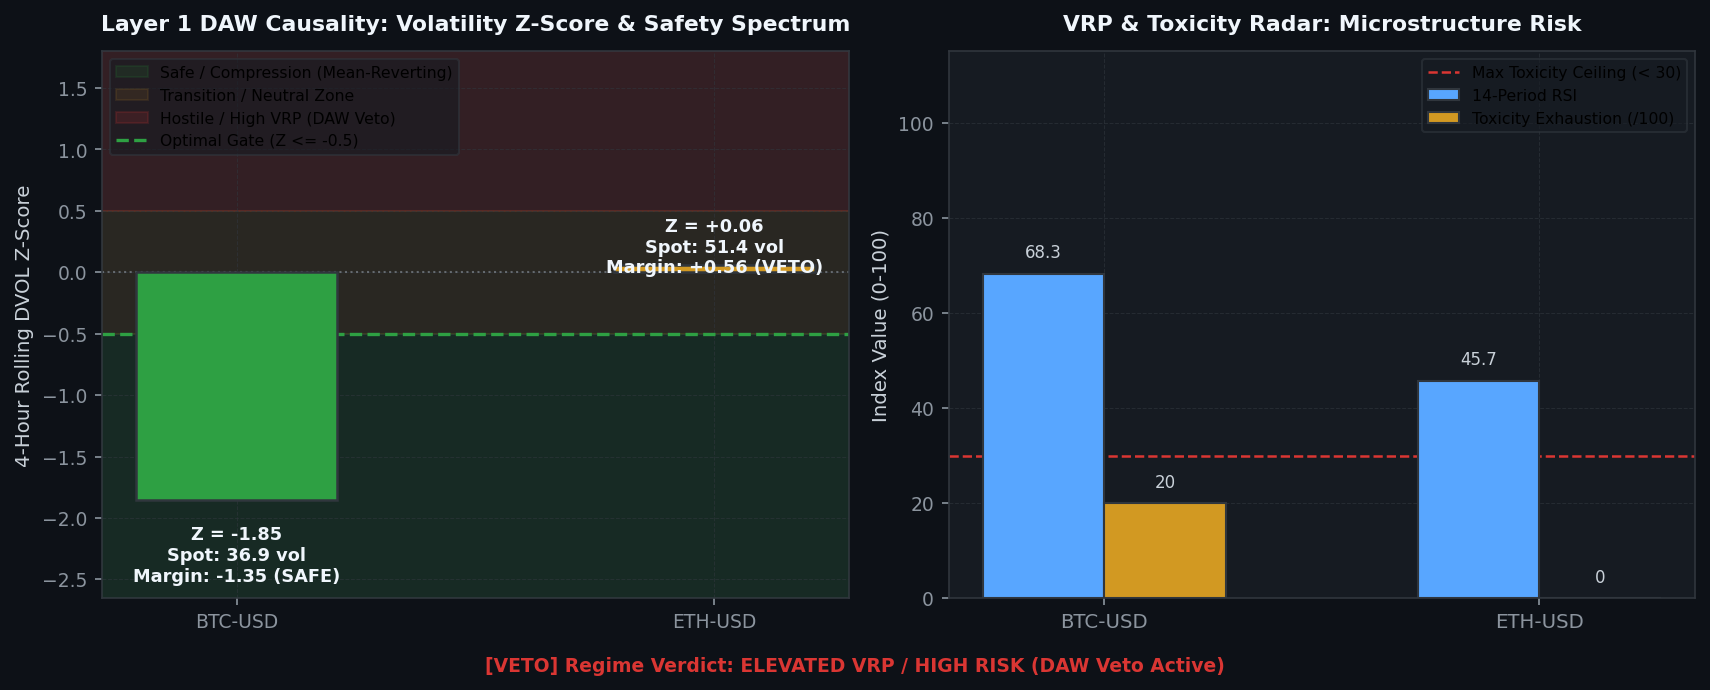
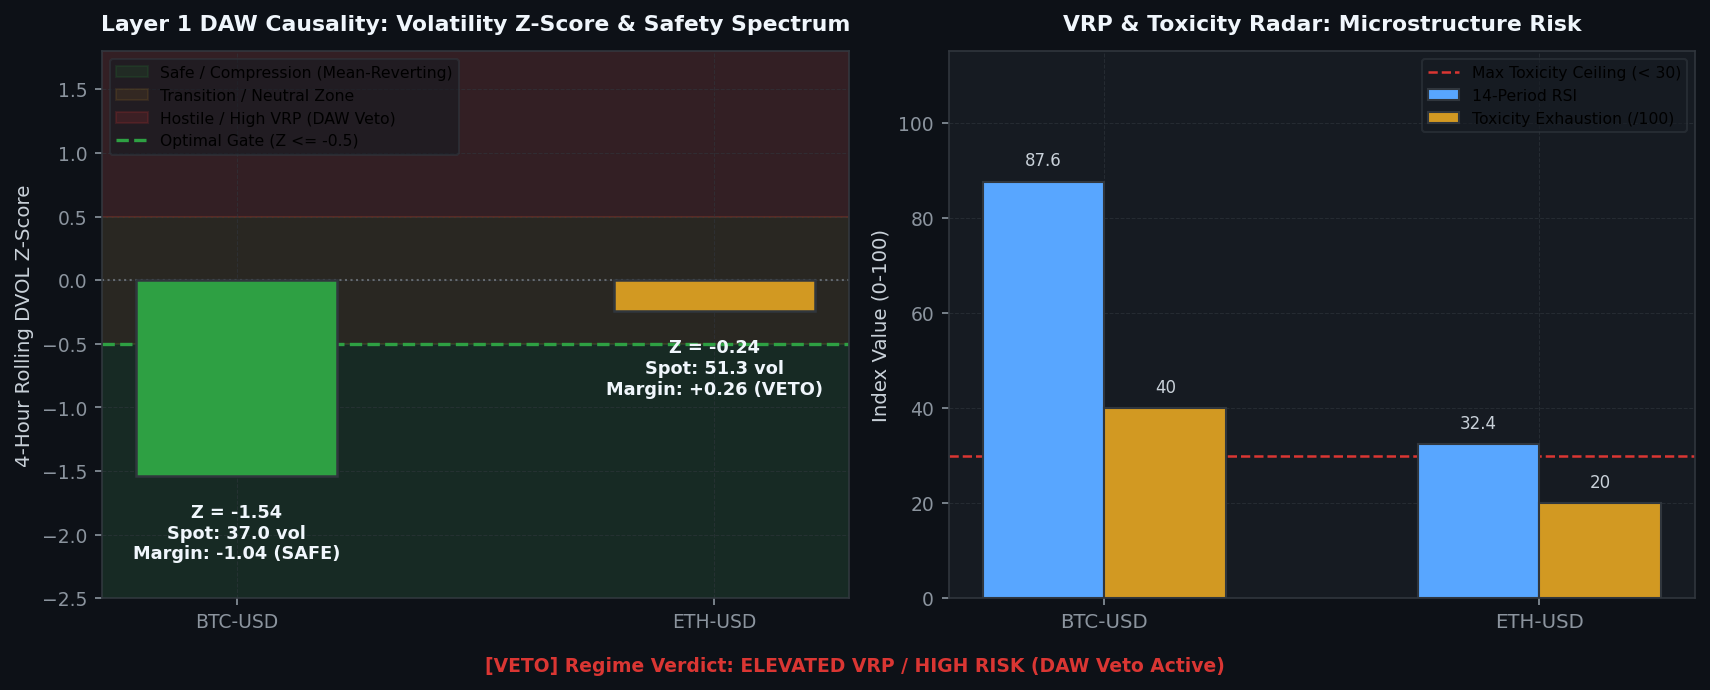
[coinbase] Hourly Status & Visual Intelligence Update: 2026-09-02 03:00:24

diff --git a/coinbase/data/hourly_status_report.md b/coinbase/data/hourly_status_report.md
@@ -3,7 +3,7 @@ layout: default
 ---
 
 # 🛡 Unified Trading System Hourly Status & Visual Intelligence
-> **Report Generated**: `2026-09-02 02:45:41 AM PDT (2026-09-02 09:45:41 UTC)`  
+> **Report Generated**: `2026-09-02 03:00:05 AM PDT (2026-09-02 10:00:05 UTC)`  
 > **System Health**: **🟡 DEGRADED / RESTRICTED** | **Win Rate**: `0.0%` | **Completed Trades**: `0`
 
 
@@ -15,13 +15,13 @@ Real-time Deribit implied volatility (DVOL) proxy tracking against mathematicall
 
 | Symbol | Proxy Oracle | Live Z-Score | Optimal Limit (YSP) | Safety Margin | Live VRP | Optimal VRP (YSP) | DAW Safety Verdict |
 | :--- | :--- | :--- | :--- | :--- | :--- | :--- | :--- |
-| `AVAX-USD` | DVOL_BTC | **-1.85** | **-0.50** | **-1.35** | **+4.71** | -1.0 | 🔴 DAW VETOED |
-| `ETH-USD` | DVOL_ETH | **+0.06** | **-0.50** | **+0.56** | **+19.65** | -1.0 | 🔴 DAW VETOED |
-| `ADA-USD` | DVOL_BTC | **-1.85** | **-0.50** | **-1.35** | **+4.71** | -1.0 | 🔴 DAW VETOED |
-| `DOGE-USD` | DVOL_BTC | **-1.85** | **-0.50** | **-1.35** | **+4.83** | -1.0 | 🔴 DAW VETOED |
-| `BTC-USD` | DVOL_BTC | **-1.85** | **-0.50** | **-1.35** | **+4.71** | -1.0 | 🔴 DAW VETOED |
-| `LINK-USD` | DVOL_BTC | **-1.85** | **-0.50** | **-1.35** | **+4.88** | -1.0 | 🔴 DAW VETOED |
-| `SOL-USD` | DVOL_BTC | **-1.85** | **-0.50** | **-1.35** | **+4.71** | -1.0 | 🔴 DAW VETOED |
+| `AVAX-USD` | DVOL_BTC | **-1.54** | **-0.50** | **-1.04** | **+5.29** | -1.0 | 🔴 DAW VETOED |
+| `ETH-USD` | DVOL_ETH | **-0.27** | **-0.50** | **+0.23** | **+19.65** | -1.0 | 🔴 DAW VETOED |
+| `ADA-USD` | DVOL_BTC | **-1.54** | **-0.50** | **-1.04** | **+5.29** | -1.0 | 🔴 DAW VETOED |
+| `DOGE-USD` | DVOL_BTC | **-1.54** | **-0.50** | **-1.04** | **+5.29** | -1.0 | 🔴 DAW VETOED |
+| `BTC-USD` | DVOL_BTC | **-1.54** | **-0.50** | **-1.04** | **+5.29** | -1.0 | 🔴 DAW VETOED |
+| `LINK-USD` | DVOL_BTC | **-1.54** | **-0.50** | **-1.04** | **+4.88** | -1.0 | 🔴 DAW VETOED |
+| `SOL-USD` | DVOL_BTC | **-1.54** | **-0.50** | **-1.04** | **+5.29** | -1.0 | 🔴 DAW VETOED |
 
 
 
@@ -37,16 +37,16 @@ We hereby certify that the mission-critical algorithmic data assets uploaded by 
 
 | Status | Data Asset | Freshness / State | Details / Timestamp |
 | :---: | :--- | :--- | :--- |
-| ✅ | **Go-List JSON** | Fresh (38.03h old) | 08-31 12:43 |
-| ✅ | **TimesFM Forecasts** | Fresh (2.73h old) | 09-02 00:01 |
-| ✅ | **Holding Times config** | Fresh (38.04h old) | 08-31 12:43 |
-| ✅ | **BTC DVOL Cache** | Fresh (0.00h old) | 09-02 02:45 |
-| ✅ | **ETH DVOL Cache** | Fresh (0.00h old) | 09-02 02:45 |
-| ✅ | **Live Trading Telemetry** | Fresh (0.00h old) | 09-02 02:45 |
+| ✅ | **Go-List JSON** | Fresh (38.27h old) | 08-31 12:43 |
+| ✅ | **TimesFM Forecasts** | Fresh (2.97h old) | 09-02 00:01 |
+| ✅ | **Holding Times config** | Fresh (38.28h old) | 08-31 12:43 |
+| ✅ | **BTC DVOL Cache** | Fresh (0.00h old) | 09-02 03:00 |
+| ✅ | **ETH DVOL Cache** | Fresh (0.00h old) | 09-02 03:00 |
+| ✅ | **Live Trading Telemetry** | Fresh (0.01h old) | 09-02 03:00 |
 
 <br>
 
-> **Utilization Certification**: ✅ **CERTIFIED.** The Guardian Watchdog is ONLINE and EC2 traders are actively querying the freshest MLOps data artifacts (Found 1533 recent read events).
+> **Utilization Certification**: ✅ **CERTIFIED.** The Guardian Watchdog is ONLINE and EC2 traders are actively querying the freshest MLOps data artifacts (Found 1586 recent read events).
 
 
 ---
@@ -55,7 +55,7 @@ Layer-by-layer tick evaluation waterfall and asset-specific performance tracking
 
 | Funnel Filter Layer | Total Rejections | % of Rejections |
 | :--- | :--- | :--- |
-| Tier 1: Macro Volatility Tensor Gate (Omega_macro) | `74,433` | **100.0%** |
+| Tier 1: Macro Volatility Tensor Gate (Omega_macro) | `74,623` | **100.0%** |
 | Tier 2: Unified Transport & Directional Engine | `0` | **0.0%** |
 | Tier 3: Continuous Hawkes-SFGK Pricer (HAS-Pricer) | `0` | **0.0%** |
 | System: Asset Cooldown Active | `0` | **0.0%** |
@@ -82,14 +82,14 @@ Operational telemetry of the high-velocity stablecoin market-making and VIP fee 
 
 | Metric | Live State | Details / Configuration |
 | :--- | :--- | :--- |
-| **Daemon Engine** | 🟢 RUNNING | PID `517031` on Live EC2 (CPU: `1.1%`, RAM: `0.2%`) |
+| **Daemon Engine** | 🟢 RUNNING | PID `639421` on Live EC2 (CPU: `0.8%`, RAM: `0.2%`) |
 | **Target Peg Pair** | `USDT-USD` | Dynamic Top-of-Book Post-Only Maker liquidity |
 | **Tranche Order Sizing** | `$5,000.00 USD` | Multi-block continuous capital rotation |
 | **HFT Reserve Floor** | `$15,000.00 USD` | Unencumbered liquid USD strictly reserved for 0ms volatile strikes |
 | **Priority Interrupt Mode** | 🟢 ACTIVE FARMING (NON_UU_EMERGENT=False) | Instantly cancels U/U buys when volatile trade enters |
-| **Active BUY Tranches** | **4 Orders** (`$19,989.00 USD`) | Resting Limit Bids pegged to Best Bid |
-| **Active SELL Tranches** | **4 Orders** (`$29,569.42 USDT`) | Resting Limit Asks pegged to Best Ask |
-| **Total Deployed U/U Capital** | **`$49,558.42 USD`** | Active bidirectional turnover liquidity pool |
+| **Active BUY Tranches** | **4 Orders** (`$19,989.40 USD`) | Resting Limit Bids pegged to Best Bid |
+| **Active SELL Tranches** | **3 Orders** (`$24,572.32 USDT`) | Resting Limit Asks pegged to Best Ask |
+| **Total Deployed U/U Capital** | **`$44,561.72 USD`** | Active bidirectional turnover liquidity pool |
 | **Rolling 30-Day Volume** | **`$2,223,715.56 USD`** | **VIP 2** (Maker: **0.05%** / 5 bps, Taker: **0.10%**) |
 | **Next Tier Milestone (VIP 3)** | **44.5% Complete** | `$2,776,284.44 USD` to reach $5,000,000.00 threshold |
 
@@ -98,14 +98,13 @@ Operational telemetry of the high-velocity stablecoin market-making and VIP fee 
 
 | Pair | Side | Limit Price | Tranche Size | Est. Value | Order ID |
 | :--- | :--- | :--- | :--- | :--- | :--- |
-| `USDT-USD` | 🟢 **BUY** | 0.99945 | 5,000.0 | `$4,997.25` | `e44a6666-bb14-4a56-8a06-43562aace084` |
-| `USDT-USD` | 🟢 **BUY** | 0.99945 | 5,000.0 | `$4,997.25` | `10faa954-305c-4791-9bd7-2870c30e3ad3` |
-| `USDT-USD` | 🟢 **BUY** | 0.99945 | 5,000.0 | `$4,997.25` | `f71bfd6b-d2c0-4f04-acf2-73bc179674a8` |
-| `USDT-USD` | 🟢 **BUY** | 0.99945 | 5,000.0 | `$4,997.25` | `3b7fe561-7176-4b19-95a8-7e6cb16ae7e7` |
+| `USDT-USD` | 🟢 **BUY** | 0.99947 | 5,000.0 | `$4,997.35` | `1dc14ed0-76bd-4d5e-89c0-a636bb0bd216` |
+| `USDT-USD` | 🟢 **BUY** | 0.99947 | 5,000.0 | `$4,997.35` | `c3b5a073-b64f-477b-956c-a108638766dd` |
+| `USDT-USD` | 🟢 **BUY** | 0.99947 | 5,000.0 | `$4,997.35` | `1f3c98ce-a713-40bc-8dc1-99fda2c3132e` |
+| `USDT-USD` | 🟢 **BUY** | 0.99947 | 5,000.0 | `$4,997.35` | `c87d32d5-ed6a-4d04-979b-f43c2eebe6f6` |
+| `USDT-USD` | 🔴 **SELL** | 0.99948 | 5,000.0 | `$4,997.40` | `d15acce7-2f8c-46b5-adbd-0823a56c03b7` |
+| `USDT-USD` | 🔴 **SELL** | 0.99948 | 5,000.0 | `$4,997.40` | `5f535b9a-7fa6-4a8d-a527-6fe19f157ad2` |
 | `USDT-USD` | 🔴 **SELL** | 0.99955 | 14,584.1 | `$14,577.52` | `efd8514f-211c-4472-8714-3f95201b75fd` |
-| `USDT-USD` | 🔴 **SELL** | 0.99946 | 5,000.0 | `$4,997.30` | `f1c8d634-dd2a-4706-a5b3-8c7ee2bddeb0` |
-| `USDT-USD` | 🔴 **SELL** | 0.99946 | 5,000.0 | `$4,997.30` | `7b5f78a0-87cd-4ad7-8d04-16c3e60c99f6` |
-| `USDT-USD` | 🔴 **SELL** | 0.99946 | 5,000.0 | `$4,997.30` | `065fdcdb-506f-463b-a610-c6de1260a7a4` |
 
 
 ---
@@ -114,7 +113,7 @@ Live balance sheet and open maker liquidity positions from Coinbase CDP.
 
 | Currency | Available | Hold | Total Balance |
 | :--- | :--- | :--- | :--- |
-| `USDT` | 3961.1800 | 29584.0800 | **33545.2600** |
+| `USDT` | 9070.6400 | 24578.0800 | **33648.7200** |
 | `CRV` | 0.0500 | 0.0000 | **0.0500** |
 | `FIL` | 0.0050 | 0.0000 | **0.0050** |
 | `ALEPH` | 2.4000 | 0.0000 | **2.4000** |
@@ -135,15 +134,14 @@ Live balance sheet and open maker liquidity positions from Coinbase CDP.
 | :--- | :--- | :--- | :--- | :--- |
 | `ACH-USD` | SELL | 0.00551 | 8,234.10 | `a0d2e243-42b4-4df5-bd23-118f45998df8` |
 | `ETH-USD` | SELL | 2,393.34000 | 0.37 | `f26cfea3-3b73-4952-9d2e-5614cb5ea76d` |
-| `USDT-USD` | BUY | 0.99945 | 5,000.00 | `e44a6666-bb14-4a56-8a06-43562aace084` |
+| `USDT-USD` | BUY | 0.99947 | 5,000.00 | `1dc14ed0-76bd-4d5e-89c0-a636bb0bd216` |
+| `USDT-USD` | BUY | 0.99947 | 5,000.00 | `c3b5a073-b64f-477b-956c-a108638766dd` |
+| `USDT-USD` | BUY | 0.99947 | 5,000.00 | `1f3c98ce-a713-40bc-8dc1-99fda2c3132e` |
+| `USDT-USD` | BUY | 0.99947 | 5,000.00 | `c87d32d5-ed6a-4d04-979b-f43c2eebe6f6` |
+| `USDT-USD` | SELL | 0.99948 | 5,000.00 | `d15acce7-2f8c-46b5-adbd-0823a56c03b7` |
+| `USDT-USD` | SELL | 0.99948 | 5,000.00 | `5f535b9a-7fa6-4a8d-a527-6fe19f157ad2` |
 | `USDT-USD` | SELL | 0.99955 | 14,584.08 | `efd8514f-211c-4472-8714-3f95201b75fd` |
 | `LINK-USD` | SELL | 11.13600 | 118.94 | `a374435e-25c2-4ef6-9afd-481b16f57d7e` |
-| `USDT-USD` | BUY | 0.99945 | 5,000.00 | `10faa954-305c-4791-9bd7-2870c30e3ad3` |
-| `USDT-USD` | BUY | 0.99945 | 5,000.00 | `f71bfd6b-d2c0-4f04-acf2-73bc179674a8` |
-| `USDT-USD` | BUY | 0.99945 | 5,000.00 | `3b7fe561-7176-4b19-95a8-7e6cb16ae7e7` |
-| `USDT-USD` | SELL | 0.99946 | 5,000.00 | `f1c8d634-dd2a-4706-a5b3-8c7ee2bddeb0` |
-| `USDT-USD` | SELL | 0.99946 | 5,000.00 | `7b5f78a0-87cd-4ad7-8d04-16c3e60c99f6` |
-| `USDT-USD` | SELL | 0.99946 | 5,000.00 | `065fdcdb-506f-463b-a610-c6de1260a7a4` |
 
 
 
@@ -151,14 +149,14 @@ Live balance sheet and open maker liquidity positions from Coinbase CDP.
 ## 6. 🤖 Foundation Model MLOps & Pipeline Orchestration
 Weekly Algorithmic Mega Cap selection, Zero-shot multi-step forward return forecasts, and VSTEF parameter grid search status.
 
-- **TimesFM Forecast DB**: 🟢 Updated 2.7h ago (2026-09-02 12:01 AM PDT)
+- **TimesFM Forecast DB**: 🟢 Updated 3.0h ago (2026-09-02 12:01 AM PDT)
 - **Last Weekly VSTEF Optimization**: `2026-08-31 12:42:56 PM PDT`
-- **Next Scheduled VSTEF Run**: `2026-09-06 07:00:00 PM PDT (Monday 02:00 UTC)` (Countdown: **112.2h (4d 16h 14m)**)
+- **Next Scheduled VSTEF Run**: `2026-09-06 07:00:00 PM PDT (Monday 02:00 UTC)` (Countdown: **112.0h (4d 15h 59m)**)
 - **Promoted Parameter Gates**: $Z_{DVOL} \le -0.5$ | Holding Horizon $= 12\text{h}$
 
 ### Algorithmic Mega Cap Selection
 - **Last Run (Confirmation)**: `2026-08-31 12:43:56 PM PDT`
-- **Next Scheduled Run**: `2026-09-06 06:00:00 PM PDT (Monday 01:00 UTC)` (Countdown: **111.2h (4d 15h 14m)**)
+- **Next Scheduled Run**: `2026-09-06 06:00:00 PM PDT (Monday 01:00 UTC)` (Countdown: **111.0h (4d 14h 59m)**)
 - **Selected Mega Cap Universe**: `BTC, ETH, DOGE, SUI, XRP, SOL, ZEC`
 
 
@@ -172,20 +170,20 @@ Visualizing the impact of the VSTEF (Volatility-Synchronized Stop-Tightening Exe
 ## 7. 🖥 Multi-Node Infrastructure & Watchdog Matrix
 ```text
 ================================================================================
-   🛡  SFGK FUNNEL GUARDIAN WATCHDOG (HFT ONLY) |  09:45:40 AM
-   CPU:  15.6%  |  MEM:   6.8% (14.4GB / 15.4GB Free)
+   🛡  SFGK FUNNEL GUARDIAN WATCHDOG (HFT ONLY) |  10:00:03 AM
+   CPU:  28.6%  |  MEM:   7.0% (14.3GB / 15.4GB Free)
 ================================================================================
 SERVICE              | PID      | STATUS          | RESTARTS | INFO
 --------------------------------------------------------------------------------
-L3 Consumer          | 516843   | RUNNING         | -        | Continuous Websocket Feed
-MAO Daemon           | 517029   | RUNNING         | -        | Oracle Yield Analysis
-U/U Farmer           | 517031   | RUNNING         | -        | Volume Farmer
-Trader AVAX-USD      | 624659   | COOL-DOWN       | 97       | Next run in 14.6s
-Trader ETH-USD       | 599433   | RUNNING         | 172      | Evaluating Funnel/Polling Order
-Trader ADA-USD       | 624660   | COOL-DOWN       | 77       | Next run in 14.6s
-Trader DOGE-USD      | 624835   | RUNNING         | 122      | Evaluating Funnel/Polling Order
-Trader BTC-USD       | 624602   | COOL-DOWN       | 297      | Next run in 9.0s
-Trader LINK-USD      | 594351   | RUNNING         | 39       | Evaluating Funnel/Polling Order
+L3 Consumer          | 639349   | RUNNING         | -        | Continuous Websocket Feed
+MAO Daemon           | 639419   | RUNNING         | -        | Oracle Yield Analysis
+U/U Farmer           | 639421   | RUNNING         | -        | Volume Farmer
+Trader AVAX-USD      | 640544   | COOL-DOWN       | 3        | Next run in 14.6s
+Trader ETH-USD       | 639423   | RUNNING         | 0        | Evaluating Funnel/Polling Order
+Trader ADA-USD       | 640545   | COOL-DOWN       | 3        | Next run in 14.6s
+Trader DOGE-USD      | 640546   | COOL-DOWN       | 3        | Next run in 14.6s
+Trader BTC-USD       | 640547   | COOL-DOWN       | 3        | Next run in 14.6s
+Trader LINK-USD      | 639427   | RUNNING         | 0        | Evaluating Funnel/Polling Order
 ```
 
 ---
@@ -204,9 +202,6 @@ Trader LINK-USD      | 594351   | RUNNING         | 39       | Evaluating Funnel
 <summary><b>Click to expand raw incident logs</b></summary>
 
 ```text
-logs/watchdog_Trader_SOL_USD.log:2026-09-02 06:04:12 [WARNING] [async_sfgk_trader.py:_execute_api_call:299] [SOL-USD] Coinbase API Call Exception (Attempt 1/5). Func: get_accounts | Sleeping 1.46s... | Error: 429 Client Error: Too Many Requests 
-logs/watchdog_Trader_SOL_USD.log:2026-09-02 06:04:34 [WARNING] [async_sfgk_trader.py:_execute_api_call:299] [SOL-USD] Coinbase API Call Exception (Attempt 1/5). Func: get_accounts | Sleeping 1.16s... | Error: 429 Client Error: Too Many Requests 
-logs/watchdog_Trader_SOL_USD.log:2026-09-02 06:04:55 [WARNING] [async_sfgk_trader.py:_execute_api_call:299] [SOL-USD] Coinbase API Call Exception (Attempt 1/5). Func: get_product | Sleeping 1.41s... | Error: 429 Client Error: Too Many Requests 
 logs/watchdog_Trader_SOL_USD.log:2026-09-02 06:05:38 [WARNING] [async_sfgk_trader.py:_execute_api_call:299] [SOL-USD] Coinbase API Call Exception (Attempt 1/5). Func: get_product | Sleeping 1.13s... | Error: 429 Client Error: Too Many Requests 
 logs/watchdog_Trader_SOL_USD.log:2026-09-02 06:05:59 [WARNING] [async_sfgk_trader.py:_execute_api_call:299] [SOL-USD] Coinbase API Call Exception (Attempt 1/5). Func: get_accounts | Sleeping 1.44s... | Error: 429 Client Error: Too Many Requests 
 logs/watchdog_Trader_SOL_USD.log:2026-09-02 06:06:21 [WARNING] [async_sfgk_trader.py:_execute_api_call:299] [SOL-USD] Coinbase API Call Exception (Attempt 1/5). Func: get_product | Sleeping 1.10s... | Error: 429 Client Error: Too Many Requests 
@@ -243,7 +238,10 @@ logs/watchdog_Trader_SOL_USD.log:2026-09-02 08:24:42 [WARNING] [async_sfgk_trade
 logs/watchdog_Trader_SOL_USD.log:2026-09-02 08:26:50 [WARNING] [async_sfgk_trader.py:_execute_api_call:299] [SOL-USD] Coinbase API Call Exception (Attempt 1/5). Func: get_accounts | Sleeping 1.27s... | Error: 429 Client Error: Too Many Requests 
 logs/watchdog_Trader_SOL_USD.log:2026-09-02 08:38:35 [WARNING] [async_sfgk_trader.py:_execute_api_call:299] [SOL-USD] Coinbase API Call Exception (Attempt 1/5). Func: get_product | Sleeping 1.47s... | Error: 429 Client Error: Too Many Requests 
 logs/watchdog_Trader_SOL_USD.log:2026-09-02 08:41:05 [WARNING] [async_sfgk_trader.py:_execute_api_call:299] [SOL-USD] Coinbase API Call Exception (Attempt 1/5). Func: get_product | Sleeping 1.28s... | Error: 429 Client Error: Too Many Requests 
-logs/watchdog_Trader_SOL_USD.log:2026-09-02 08:42:30 [WARNING] [async_sfgk_trader.py:_execute_api_call:299] [SOL-USD] Coinbase API Call Exception (Attempt 1/5). Func: get_product | Sleeping 1.33s... | Error: 429 Client Error: Too Many Requests
+logs/watchdog_Trader_SOL_USD.log:2026-09-02 08:42:30 [WARNING] [async_sfgk_trader.py:_execute_api_call:299] [SOL-USD] Coinbase API Call Exception (Attempt 1/5). Func: get_product | Sleeping 1.33s... | Error: 429 Client Error: Too Many Requests 
+logs/watchdog_Trader_SOL_USD.log:2026-09-02 09:58:53 [WARNING] [async_sfgk_trader.py:_execute_api_call:299] [SOL-USD] Coinbase API Call Exception (Attempt 1/5). Func: get_product | Sleeping 1.45s... | Error: 429 Client Error: Too Many Requests 
+logs/watchdog_Trader_SOL_USD.log:2026-09-02 09:59:36 [WARNING] [async_sfgk_trader.py:_execute_api_call:299] [SOL-USD] Coinbase API Call Exception (Attempt 1/5). Func: get_accounts | Sleeping 1.23s... | Error: 429 Client Error: Too Many Requests 
+logs/watchdog_Trader_SOL_USD.log:2026-09-02 09:59:58 [WARNING] [async_sfgk_trader.py:_execute_api_call:299] [SOL-USD] Coinbase API Call Exception (Attempt 1/5). Func: get_accounts | Sleeping 1.14s... | Error: 429 Client Error: Too Many Requests
 ```
 </details>
 

diff --git a/coinbase/data/visual_intelligence.md b/coinbase/data/visual_intelligence.md
@@ -4,7 +4,7 @@ title: Visual Intelligence Gallery
 ---
 
 # 📈 Visual Intelligence Gallery
-> **Generated:** `2026-09-02 02:46:00`
+> **Generated:** `2026-09-02 03:00:24`
 > **[Return to Main Status Report](./hourly_status_report.md)**
 
 This page visualizes the internal states, market profiles, and decision criteria of the active **3-Tier Fused Decision Engine** across all layers.
